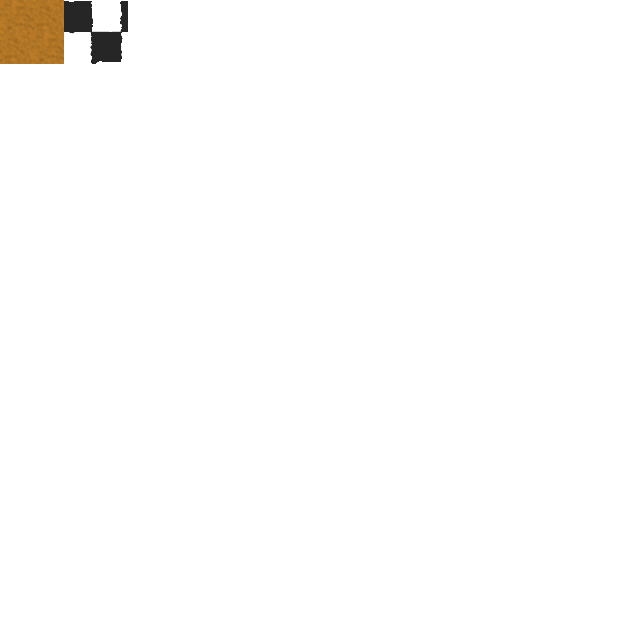
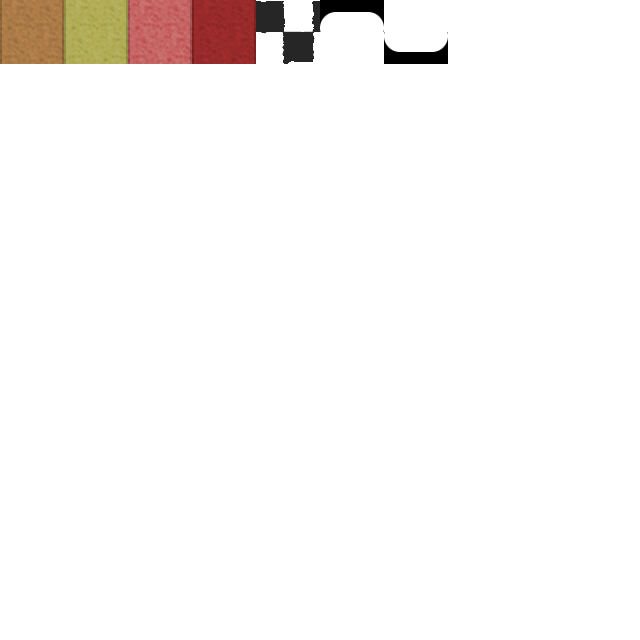
Distance tiles

Changed region(s): [[0.0, 0.0, 0.625, 0.125], [0.5938, 0.0625, 0.7188, 0.125]]

diff --git a/js/plugins/homick/race.js b/js/plugins/homick/race.js
@@ -14,7 +14,12 @@ const COUNTDOWN_TOP = TRACK_TILE_HEIGHT * 5;
 
 const TRACK_TILES_COLS = 10;
 const TRACK_TILE_INDEX = 0;
-const FINISH_TILE_INDEX = 1;
+const TRACK_TILE_MIDDLE_INDEX = 1;
+const TRACK_TILE_PENULTIMATE_INDEX = 2;
+const TRACK_TILE_LAST_INDEX = 3;
+const FINISH_TILE_INDEX = 4;
+const TOP_PIT_TILE_INDEX = 5;
+const BOTTOM_PIT_TILE_INDEX = 6;
 
 class Race {
 
@@ -156,6 +161,7 @@ class Race {
       this._drawName(this._playerNames[index], index, this._players[index].isHuman);
       this._drawTrack(homick.distance, index);
       this._drawObstacles(homick.distance, index, totalTime);
+      this._drawTrackPits(index);
       this._drawHomick(homick, index, offset);
     });
   }
@@ -240,30 +246,59 @@ class Race {
     const offset = TRACK_TILE_HEIGHT - (effectiveDistance % TRACK_TILE_HEIGHT);
     
     const x = this._tracksX + TRACK_TILE_WIDTH * homickIndex;
+    let tileIndex = this._calculateTileIndex(effectiveDistance - TRACK_TILE_HEIGHT + offset);
     this._drawTile(
-      TRACK_TILE_INDEX,
+      tileIndex,
       x,
       this._tracksY,
       TRACK_TILE_HEIGHT - offset
     )
     for (let i = 0; i < TRACK_HEIGHT - 1; i++) {
+      tileIndex = this._calculateTileIndex(effectiveDistance + i * TRACK_TILE_HEIGHT + offset);
       this._drawTile(
-        TRACK_TILE_INDEX,
+        tileIndex,
         x,
         this._tracksY + offset + i * TRACK_TILE_HEIGHT
       );
     }
+
+    tileIndex = this._calculateTileIndex(effectiveDistance + (TRACK_HEIGHT - 1) * TRACK_TILE_HEIGHT + offset);
     this._drawTile(
-      TRACK_TILE_INDEX,
+      tileIndex,
       x,
       this._tracksY + offset + (TRACK_HEIGHT - 1) * TRACK_TILE_HEIGHT,
       0,
       offset
-    )
+    );
 
     if (!this._isEndless) {
       this._drawFinishLineOnTrack(distance, homickIndex, distanceOffset);
     }
+  }
+
+  /**
+   * 
+   * @param {number} distance 
+   * @returns {0|1|2} Track tile index for the distance
+   */
+  _calculateTileIndex(distance) {
+    if (this._isEndless) {
+      return TRACK_TILE_INDEX;
+    }
+    if (distance > this._totalDistance * 0.9) {
+      return TRACK_TILE_LAST_INDEX;
+    }
+    return Math.max(Math.min(Math.floor((distance / this._totalDistance) * 3), TRACK_TILE_PENULTIMATE_INDEX), TRACK_TILE_INDEX);
+  }
+
+  /**
+   * 
+   * @param {number} homickIndex 
+   */
+  _drawTrackPits(homickIndex) {
+    const x = this._tracksX + TRACK_TILE_WIDTH * homickIndex;
+    this._drawTile(TOP_PIT_TILE_INDEX, x, this._tracksY);
+    this._drawTile(BOTTOM_PIT_TILE_INDEX, x, this._tracksY + (TRACK_HEIGHT - 1) * TRACK_TILE_HEIGHT);
   }
 
   /**
